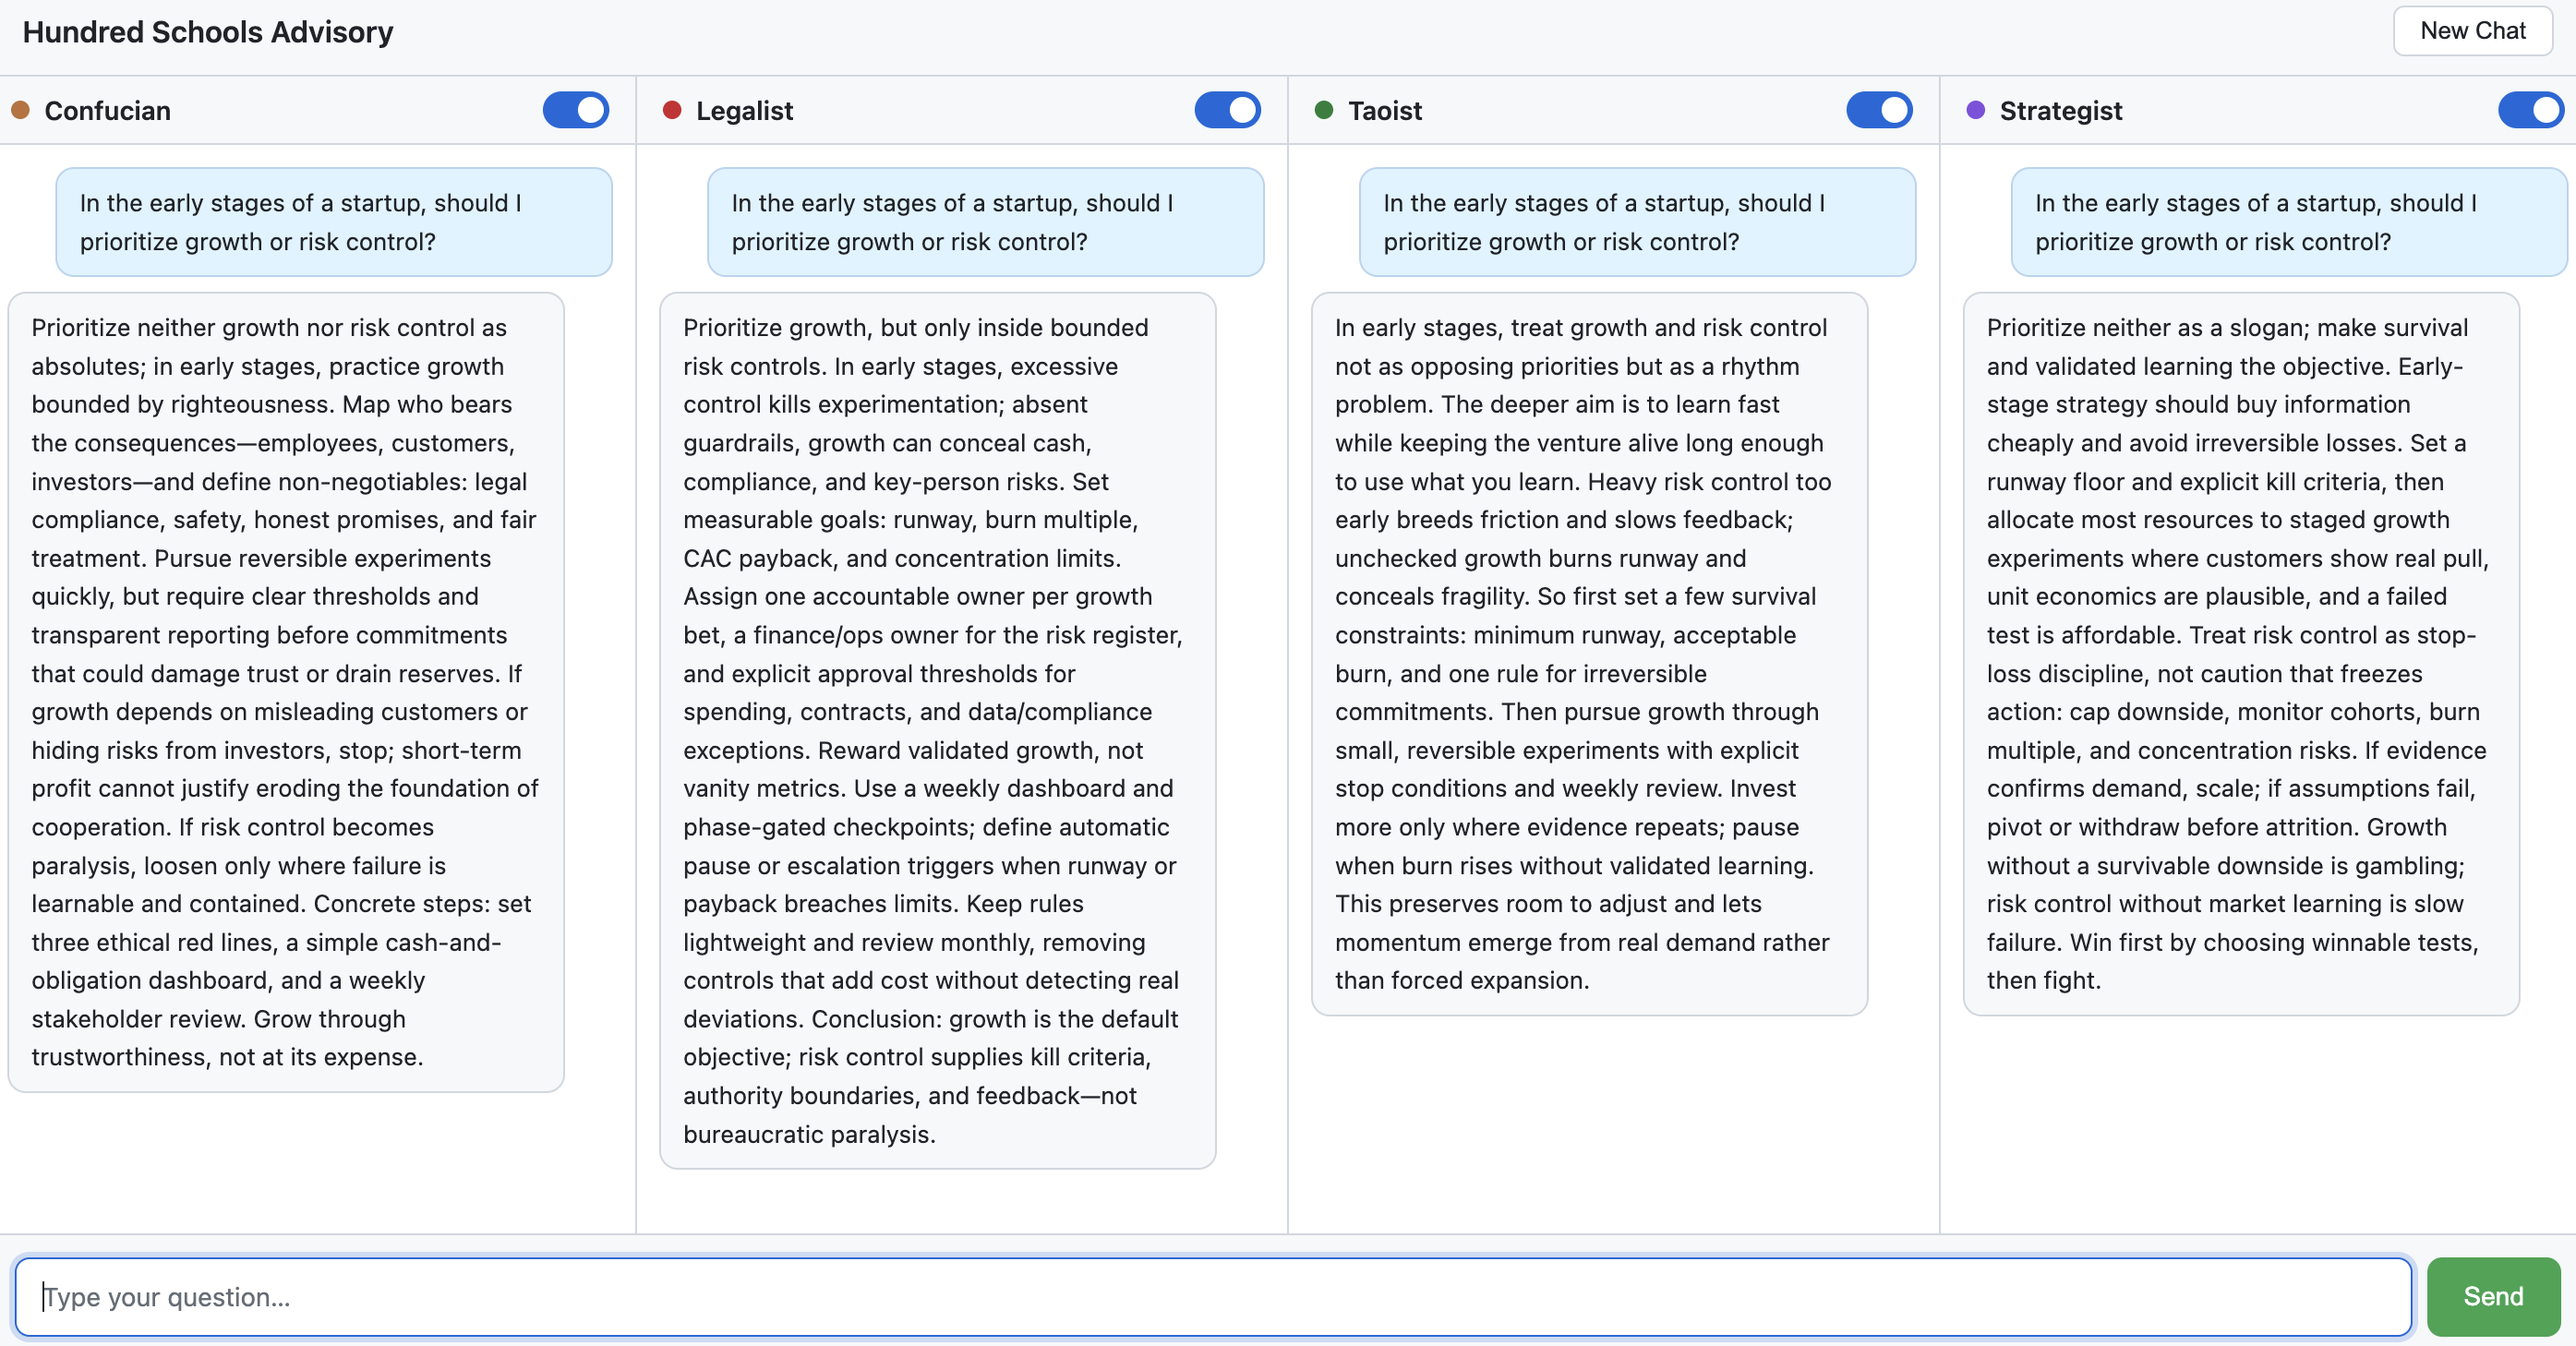
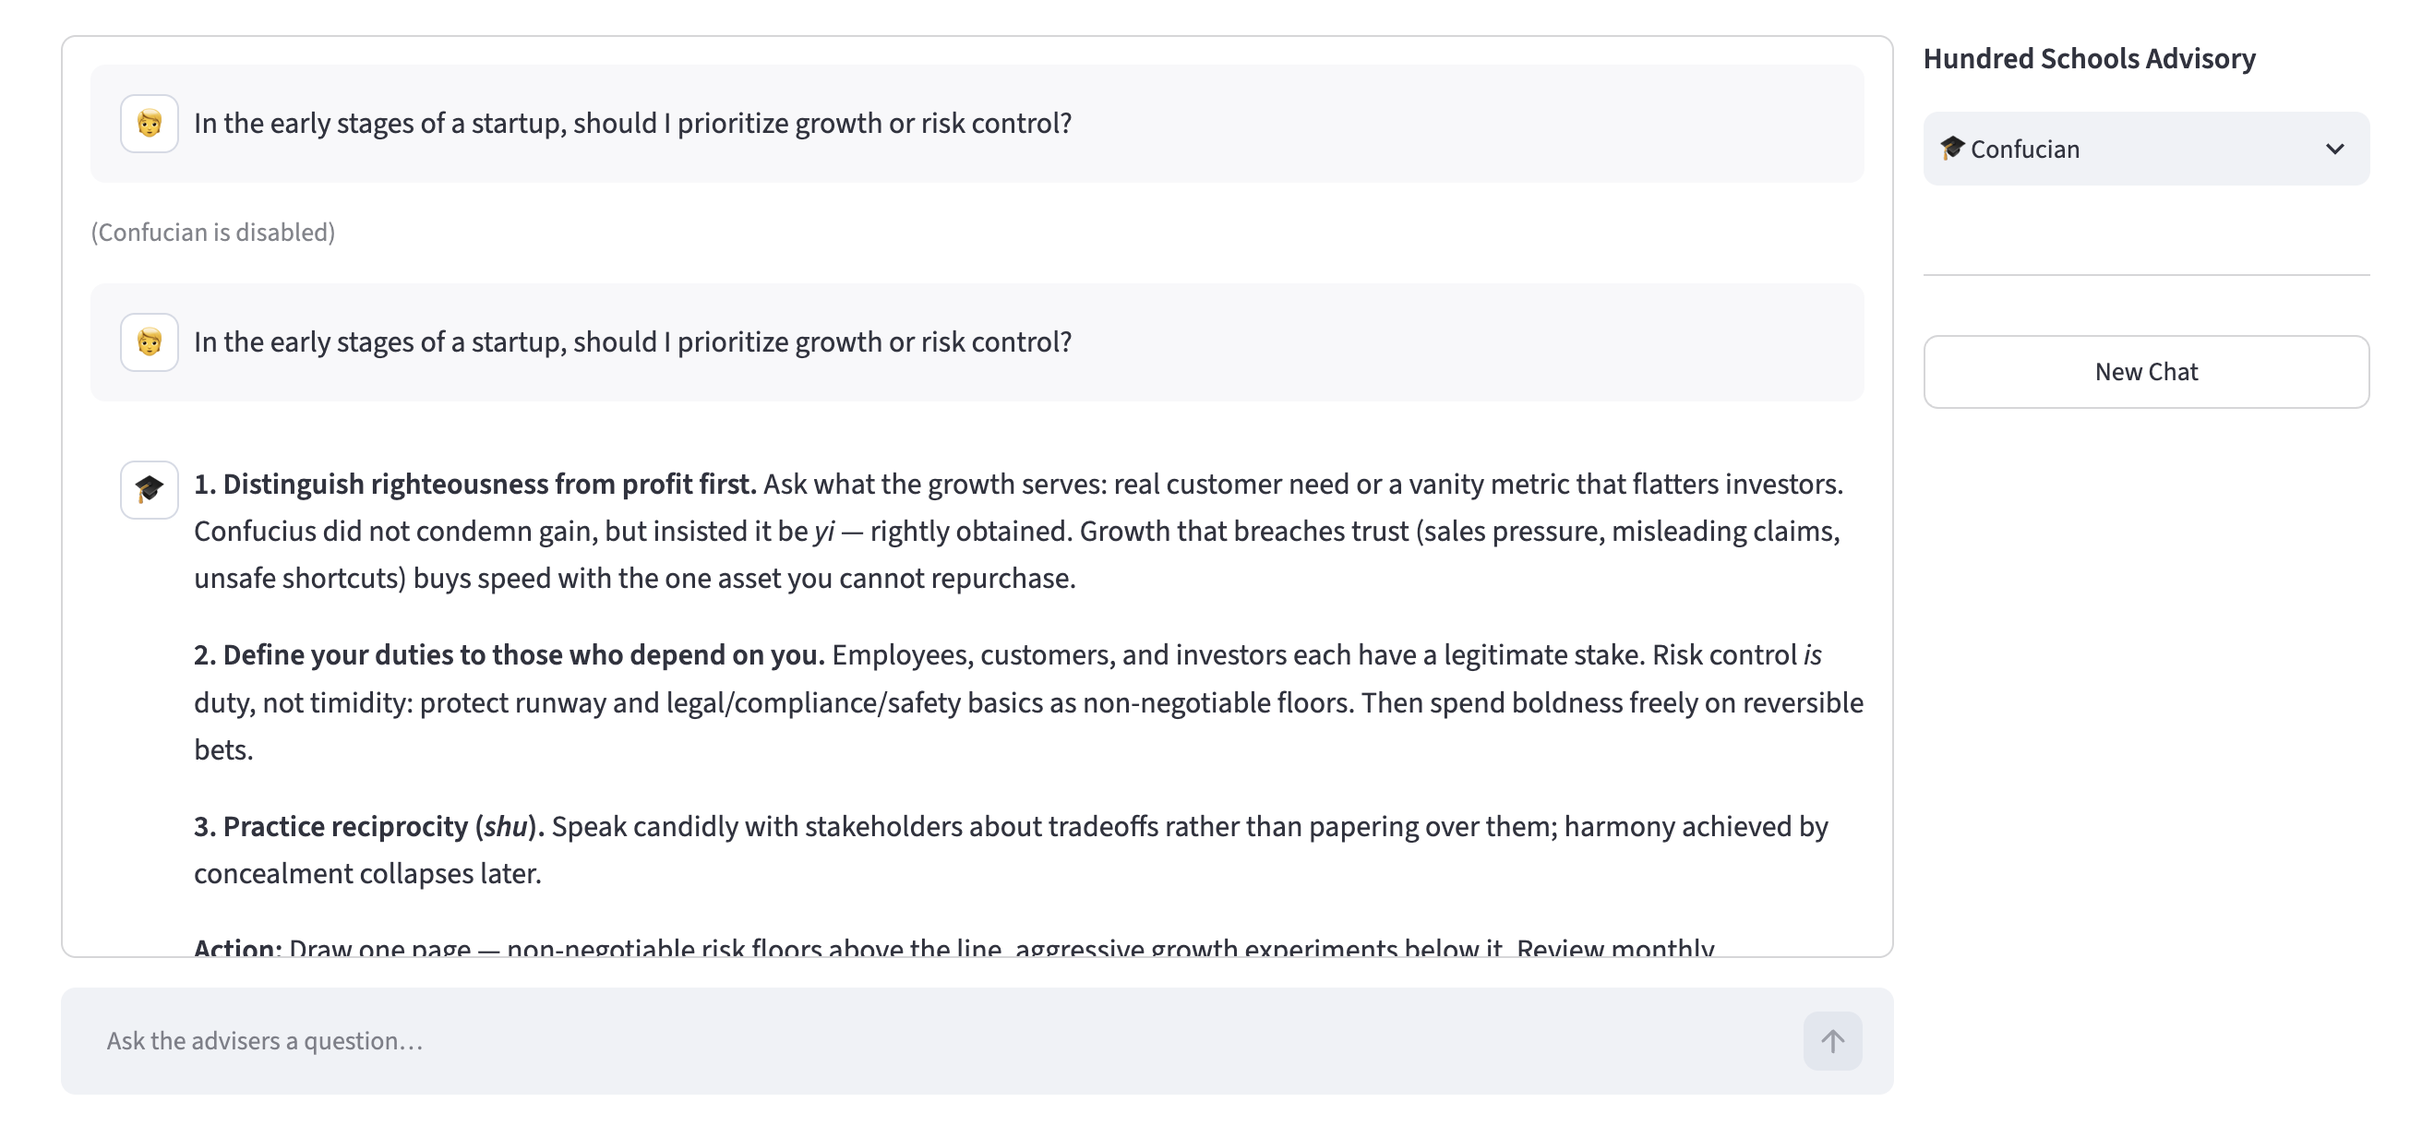
refactor(ui): switch to 2-column layout with sidebar dropdown
- Move title to right sidebar as bold text (small, not h2)
- Replace checkbox grid with single-select dropdown for adviser
- Place chat_input inside left column to align with messages
- All schools start enabled; dropdown selects the active adviser

Changed region(s): [[0.0, 0.0, 1.0, 0.8721], [0.0, 0.9033, 1.0, 1.0], [0.9688, 0.0623, 1.0, 0.0934]]

diff --git a/src/hundred_schools/ui.py b/src/hundred_schools/ui.py
@@ -10,9 +10,9 @@ Or via CLI entry point:
 from __future__ import annotations
 
 import sys
+from collections.abc import Callable
 from dataclasses import dataclass
 from pathlib import Path
-from typing import Callable
 
 import streamlit as st
 
@@ -21,7 +21,7 @@ _ROOT = Path(__file__).resolve().parent.parent.parent
 if str(_ROOT) not in sys.path:
     sys.path.insert(0, str(_ROOT))
 
-from crewai import Agent, LLM  # noqa: E402
+from crewai import LLM, Agent  # noqa: E402
 
 from hundred_schools.agents.experts import (  # noqa: E402
     create_confucian_agent,
@@ -109,21 +109,16 @@ def _call_agent(agent: Agent, llm: LLM, school: SchoolDef, message: str) -> str:
 
 def _init_state() -> None:
     defaults = {
+        "active_school_id": SCHOOLS[0].id,
         "enabled": {school.id: True for school in SCHOOLS},
         "history": {school.id: [] for school in SCHOOLS},
         "pending_question": None,
         "pending_idx": 0,
         "broadcast_count": 0,
-        "active_school_id": SCHOOLS[0].id,
     }
     for key, value in defaults.items():
         if key not in st.session_state:
             st.session_state[key] = value
-
-    active_id = st.session_state.active_school_id
-    st.session_state.enabled = {
-        school.id: school.id == active_id for school in SCHOOLS
-    }
 
 
 def _clear_chat() -> None:
@@ -138,7 +133,7 @@ def _has_pending() -> bool:
 
 
 def _active_schools() -> list[SchoolDef]:
-    """Return the single adviser selected in the upper-right dropdown."""
+    """Return the single adviser selected in the sidebar dropdown."""
     active_id = st.session_state.get("active_school_id", SCHOOLS[0].id)
     return [school for school in SCHOOLS if school.id == active_id]
 
@@ -166,26 +161,44 @@ def _render_school_chat(school: SchoolDef) -> None:
 
         if _has_pending() and enabled:
             pending_idx = st.session_state.pending_idx
-            if (
-                pending_idx < len(SCHOOLS)
-                and SCHOOLS[pending_idx].id == school.id
-            ):
-                st.chat_message("assistant", avatar=school.emoji).write(
-                    "_Thinking…_"
-                )
+            if pending_idx < len(SCHOOLS) and SCHOOLS[pending_idx].id == school.id:
+                st.chat_message("assistant", avatar=school.emoji).write("_Thinking…_")
 
 
 def _render_active_school_chats() -> None:
     """Render enabled advisers' conversations in one full-width column."""
     active_schools = _active_schools()
     if not active_schools:
-        st.info("Select at least one adviser from the menu in the upper-right corner.")
+        st.info("Select at least one adviser from the panel on the right.")
         return
 
     for index, school in enumerate(active_schools):
         if index:
             st.divider()
         _render_school_chat(school)
+
+
+def _render_sidebar() -> None:
+    """Render the title + school dropdown in the right column."""
+    st.markdown("**Hundred Schools Advisory**")
+
+    school_options = {school.id: f"{school.emoji} {school.name}" for school in SCHOOLS}
+    st.selectbox(
+        "Adviser",
+        options=[school.id for school in SCHOOLS],
+        format_func=lambda sid: school_options[sid],
+        key="active_school_id",
+        label_visibility="collapsed",
+    )
+    # Changing the dropdown activates only that adviser.
+    st.session_state.enabled = {
+        school.id: school.id == st.session_state.active_school_id for school in SCHOOLS
+    }
+
+    st.divider()
+    if st.button("New Chat", use_container_width=True):
+        _clear_chat()
+        st.rerun()
 
 
 # ---------------------------------------------------------------------------
@@ -231,9 +244,7 @@ def _process_pending() -> None:
     try:
         with st.spinner(f"{school.name} is thinking…"):
             reply = _call_agent(agents[school.id], llm, school, question)
-        st.session_state.history[school.id].append(
-            {"role": "assistant", "content": reply}
-        )
+        st.session_state.history[school.id].append({"role": "assistant", "content": reply})
     except Exception as exc:  # Keep the broadcast moving if one adviser fails.
         st.session_state.history[school.id].append(
             {"role": "system", "content": f"Request failed: {exc}"}
@@ -289,44 +300,31 @@ def _main() -> None:
         st.error(f"Failed to initialise advisers: {exc}")
         st.stop()
 
-    # Process the next adviser before rendering the normal page. Each call
-    # reruns the script and advances pending_idx until all enabled advisers finish.
+    # Process the next adviser before rendering the normal page.
     if _has_pending():
         _process_pending()
         return
 
-    # Compact header: the single selected adviser is active.
-    header_col, selector_col, action_col = st.columns([5, 3, 1.5], gap="small")
-    with header_col:
-        st.markdown(
-            "<h2 style='margin:0.2rem 0 0.1rem;'>Hundred Schools Advisory</h2>",
-            unsafe_allow_html=True,
-        )
-        st.caption("Ask one question and compare perspectives from different schools of thought.")
-    with selector_col:
-        school_options = {school.id: f"{school.emoji} {school.name}" for school in SCHOOLS}
-        st.selectbox(
-            "Active adviser",
-            options=[school.id for school in SCHOOLS],
-            format_func=lambda school_id: school_options[school_id],
-            key="active_school_id",
-            label_visibility="collapsed",
-        )
-        # Selecting one adviser activates only that adviser.
-        active_id = st.session_state.active_school_id
-        st.session_state.enabled = {
-            school.id: school.id == active_id for school in SCHOOLS
-        }
-    with action_col:
-        if st.button("New Chat", use_container_width=True):
-            _clear_chat()
-            st.rerun()
+    # Two-column layout: chat area (left) + sidebar (right).
+    chat_col, sidebar_col = st.columns([4, 1])
 
-    # One full-width conversation area. Only selected/active advisers are shown.
-    _render_active_school_chats()
+    # --- Left column: chat messages + input ---
+    with chat_col:
+        _render_active_school_chats()
 
-    # Native chat input replaces the old fixed-position textarea and custom CSS.
-    question = st.chat_input("Ask the advisers a question…", key="question_input")
+        # Native chat input inside the left column so it stays aligned with
+        # the conversation area instead of spanning the full page width.
+        question = st.chat_input("Ask the advisers a question…", key="question_input")
+
+    # --- Right column: title + adviser dropdown + new chat ---
+    with sidebar_col:
+        _render_sidebar()
+
+    # Handle any pending advisers advanced by sidebar interactions.
+    if _has_pending():
+        _process_pending()
+        return
+
     if question is not None:
         text = question.strip()
         if not text:
@@ -338,9 +336,7 @@ def _main() -> None:
 
         # Show the question in each adviser's independent conversation history.
         for school in SCHOOLS:
-            st.session_state.history[school.id].append(
-                {"role": "user", "content": text}
-            )
+            st.session_state.history[school.id].append({"role": "user", "content": text})
 
         st.session_state.pending_question = text
         st.session_state.pending_idx = 0

diff --git a/README.md b/README.md
@@ -63,6 +63,10 @@ uv run hundred-schools-ui
 A browser window will open automatically. Each adviser processes its response
 progressively, so you see answers appear one by one rather than waiting for all.
 
+<div align="center">
+<img src="docs/screenshot.png" alt="Screenshot" width="600">
+</div>
+
 ## Development & Testing
 
 ```bash
